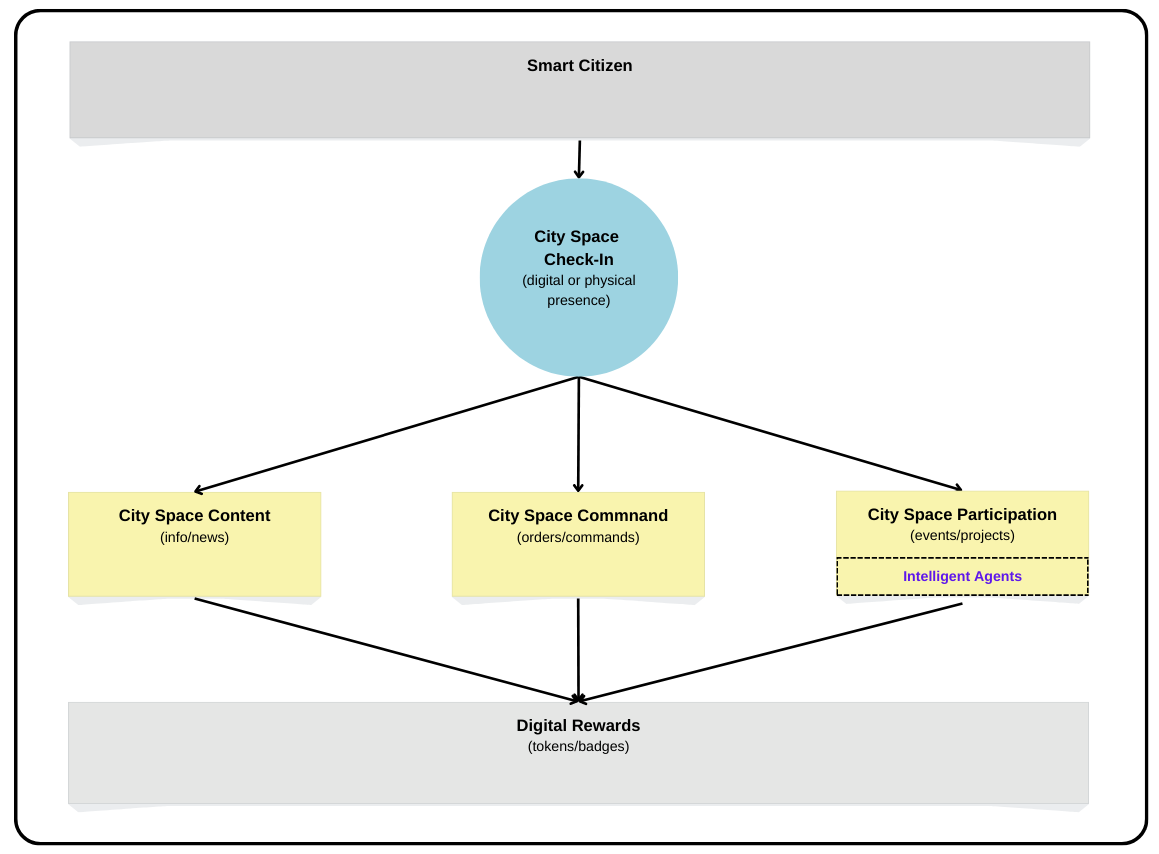
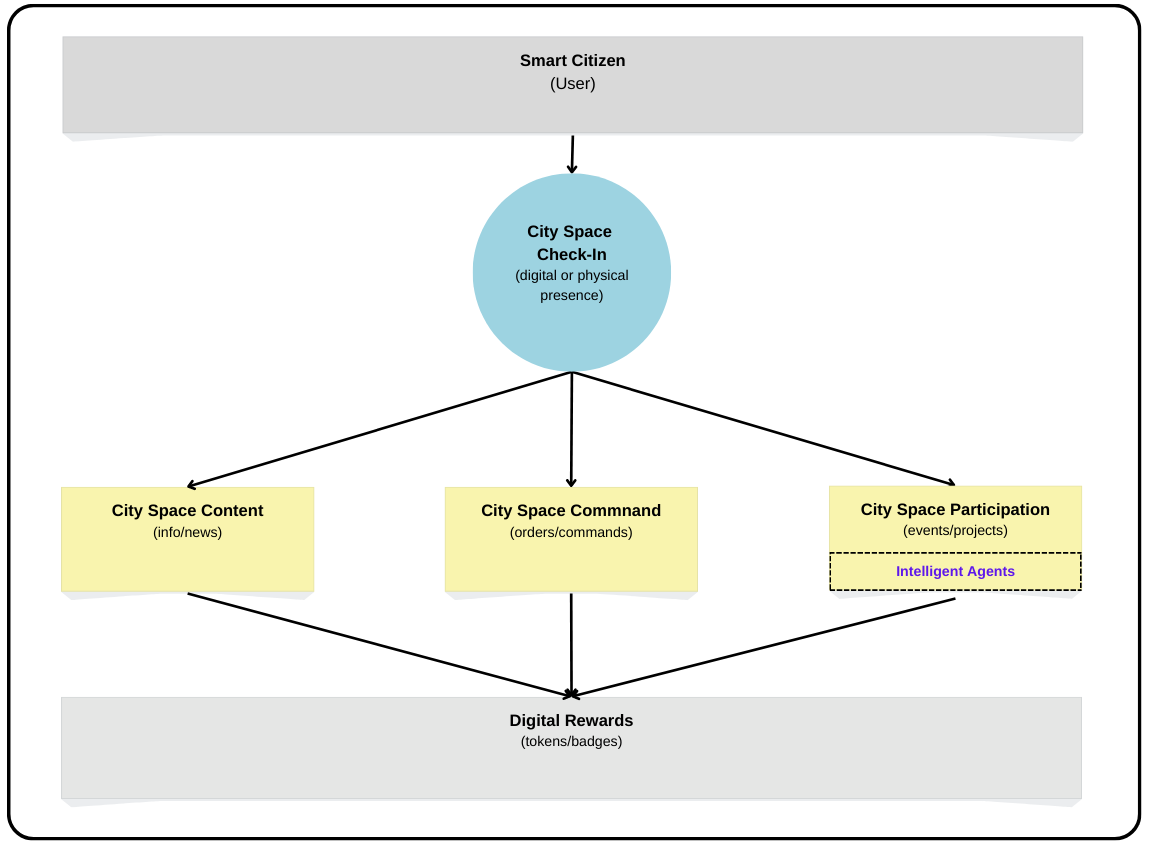
wip

diff --git a/pages/elements/city-spaces.md b/pages/elements/city-spaces.md
@@ -15,7 +15,7 @@ last_modified_date: 2022-12-04 10:40
 
 ```mermaid
 graph TD;
-    U[\Smart Citizen/]-- Check-In -->CS((City Space));
+    U[\Smart Citizen (User)/]-- Check-In -->CS((City Space));
     CS-->CSI[Interactions];
     CS-->CSC[Content];
     CS-->CSP[Participation];
